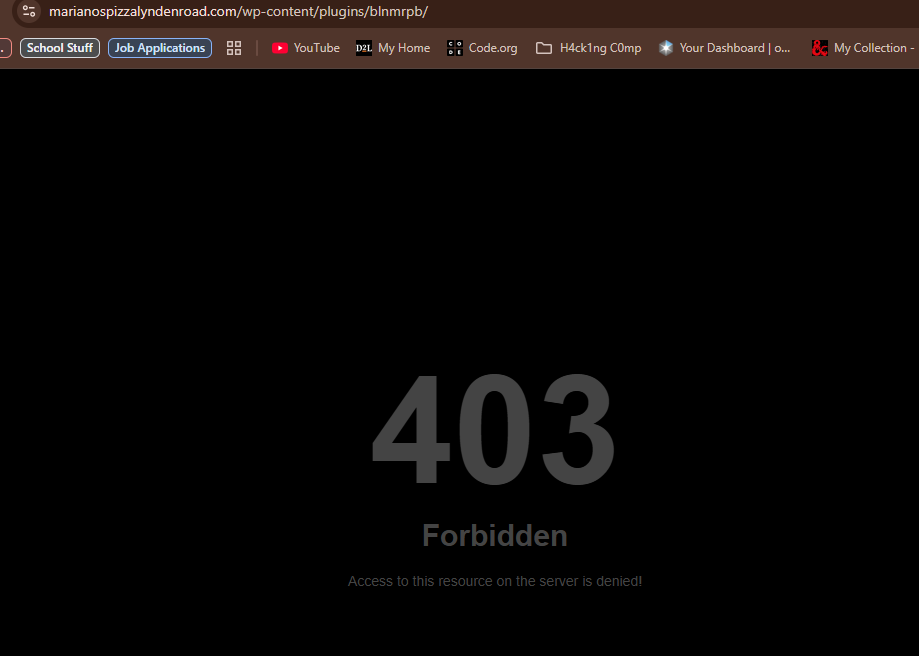
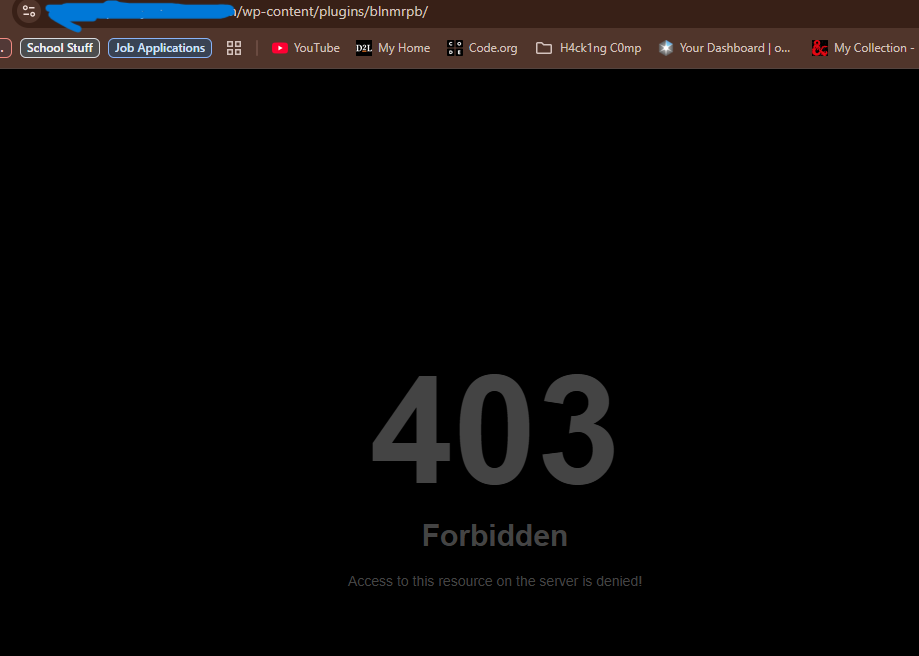
made changes to the 403 image (blocked the target domain) and added some links into Para2.

Changed region(s): [[0.0305, 0.0, 0.2742, 0.061]]

diff --git a/blog-posts/my-first-reported-vuln-fake-wp-plugin.html b/blog-posts/my-first-reported-vuln-fake-wp-plugin.html
@@ -63,5 +63,7 @@
 <!-- Paragraph 2: Documentation and Reporting -->
 <h3>Documentation and Reporting: </h3><br>
 <p>
+    Compiling all of my notes and findings into a report that I could present to the owners of the pizzeria was a daunting task not only because this was my first time doing this kind of thing, but because I used to work at the company and the last thing I wanted was for them to think that I was trying to cause trouble as revenge for terminating my employment.
+    When I was undergoing the process of taking my super technical notes and forming a report that was not overflowing with technical jargon while still being clear and concise enough to explain the functionaily and risks of the vulnerability, I found great help from my buddy <a href="https://www.linkedin.com/in/jondmarien/">Jon Marien</a> as well as two (2) videos by NahamSec covering <a href="https://www.youtube.com/watch?v=qR_OQsRFd7g">writing Pentest Reports</a> and <a href="https://www.youtube.com/watch?v=qR_OQsRFd7g">writing good Proof of Concept Reports.</a>
     
 </p>
